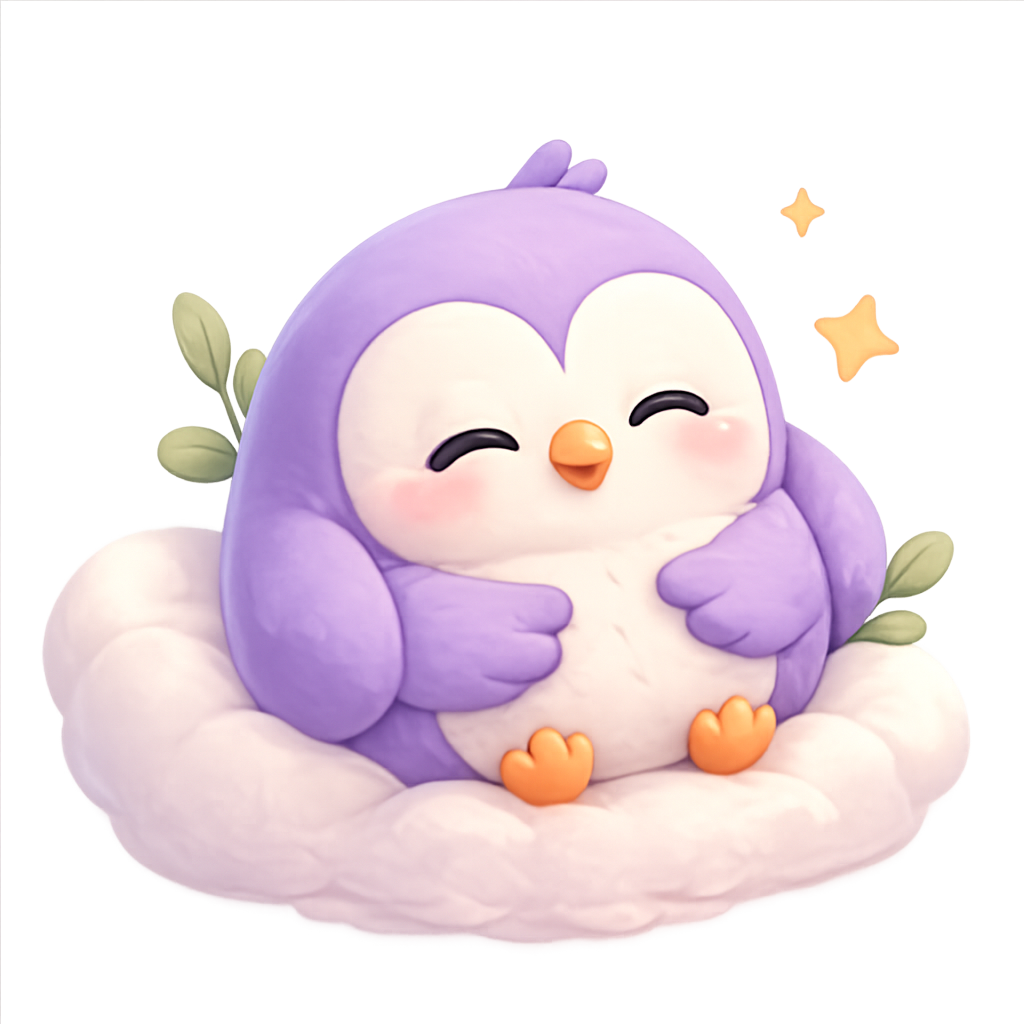
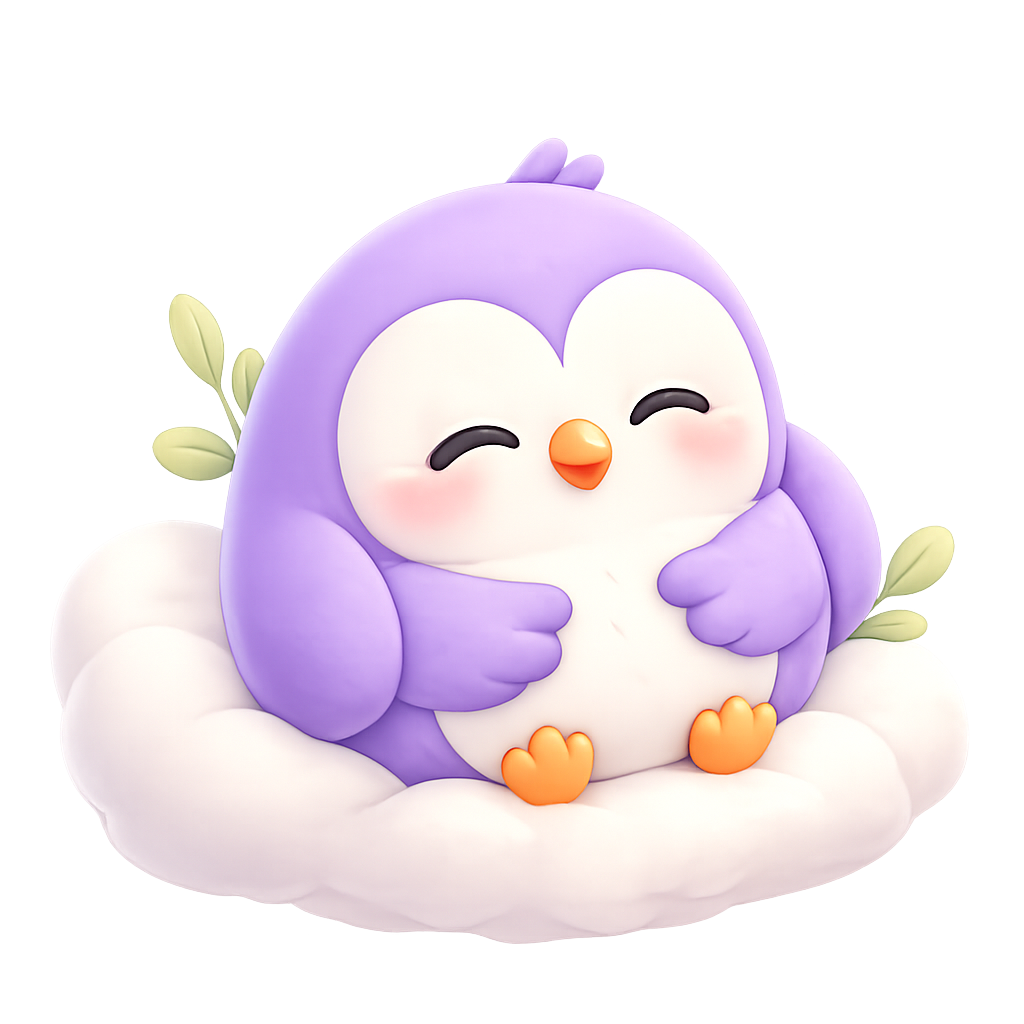
updating generating scrren progreess bar

diff --git a/snoozy-android/src/screens/GeneratingScreen.tsx b/snoozy-android/src/screens/GeneratingScreen.tsx
@@ -27,7 +27,13 @@ import { StoryStatus } from '@/types/story'
 const { width: SCREEN_WIDTH } = Dimensions.get('window')
 
 const BAR_WIDTH = SCREEN_WIDTH - Spacing.xl * 2
-const PROGRESS_DURATION = 14000 // ~15s to reach 90%
+
+// Phase 1: quick jump to 30% in 3s — shows immediate response
+const PROGRESS_PHASE1_TARGET = BAR_WIDTH * 0.30
+const PROGRESS_PHASE1_DURATION = 3000
+// Phase 2: slow linear crawl from 30% → 85% over 45s — always visibly moving
+const PROGRESS_PHASE2_TARGET = BAR_WIDTH * 0.85
+const PROGRESS_PHASE2_DURATION = 45000
 
 const LOADING_LINES = [
   (name: string) => `Crafting ${name}'s magical story…`,
@@ -40,7 +46,7 @@ const LOADING_LINES = [
 
 const SUB_LINES = [
   'Stories are better when dreams come to life…',
-  'This usually takes about 15 seconds',
+  'Usually takes about 20–30 seconds',
   'Good things take a little magic…',
   'Almost there, hold tight…',
 ]
@@ -77,12 +83,18 @@ export default function GeneratingScreen() {
     )
   }, [])
 
-  // Progress bar: ease to ~90% over PROGRESS_DURATION
+  // Progress bar: quick jump to 30%, then slow linear crawl to 85%
   useEffect(() => {
-    progressWidth.value = withTiming(BAR_WIDTH * 0.9, {
-      duration: PROGRESS_DURATION,
-      easing: Easing.out(Easing.cubic),
-    })
+    progressWidth.value = withSequence(
+      withTiming(PROGRESS_PHASE1_TARGET, {
+        duration: PROGRESS_PHASE1_DURATION,
+        easing: Easing.out(Easing.quad),
+      }),
+      withTiming(PROGRESS_PHASE2_TARGET, {
+        duration: PROGRESS_PHASE2_DURATION,
+        easing: Easing.linear,
+      }),
+    )
   }, [])
 
   // Rotate loading copy every 3s